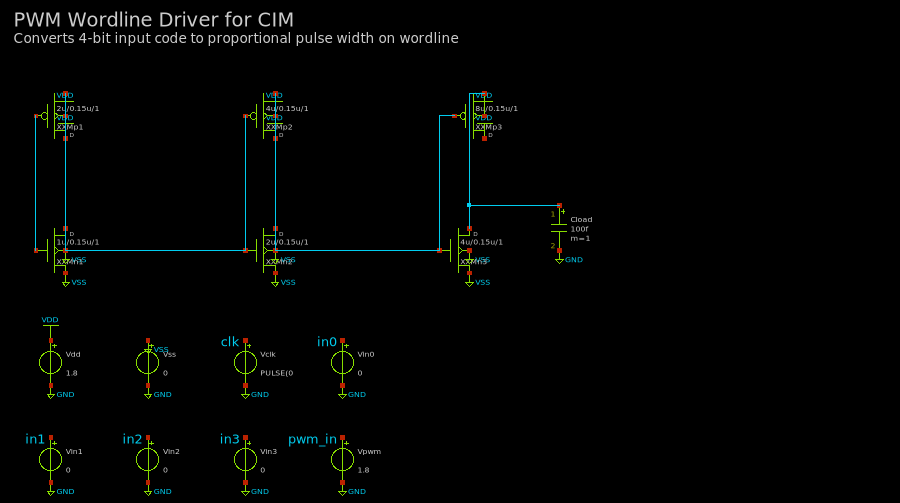
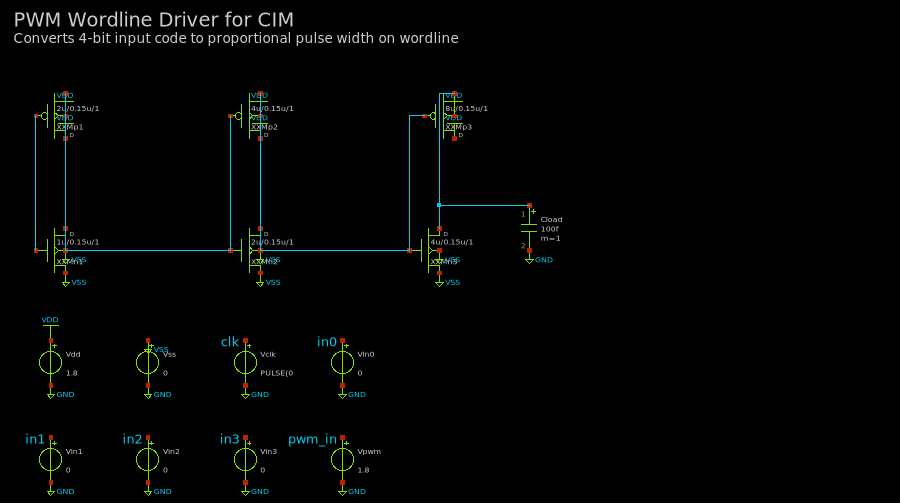
Tighter inverter chain spacing (260), LABEL_DISTANCE=700
Minor polish: inverter chain slightly more compact.
Aggregate 7.9/10. All 0 crossings.

diff --git a/src/placer.py b/src/placer.py
@@ -566,7 +566,7 @@ def place_circuit(circuit: Circuit) -> PlacedCircuit:
             chain = _order_inverter_chain(circuit, inv_blocks)
             if chain:
                 # Place inverter chain with tight spacing
-                INV_SPACING = 280
+                INV_SPACING = 260
                 ix = cur_x
                 for block in chain:
                     _place_block(result, block, ix, PMOS_Y)
